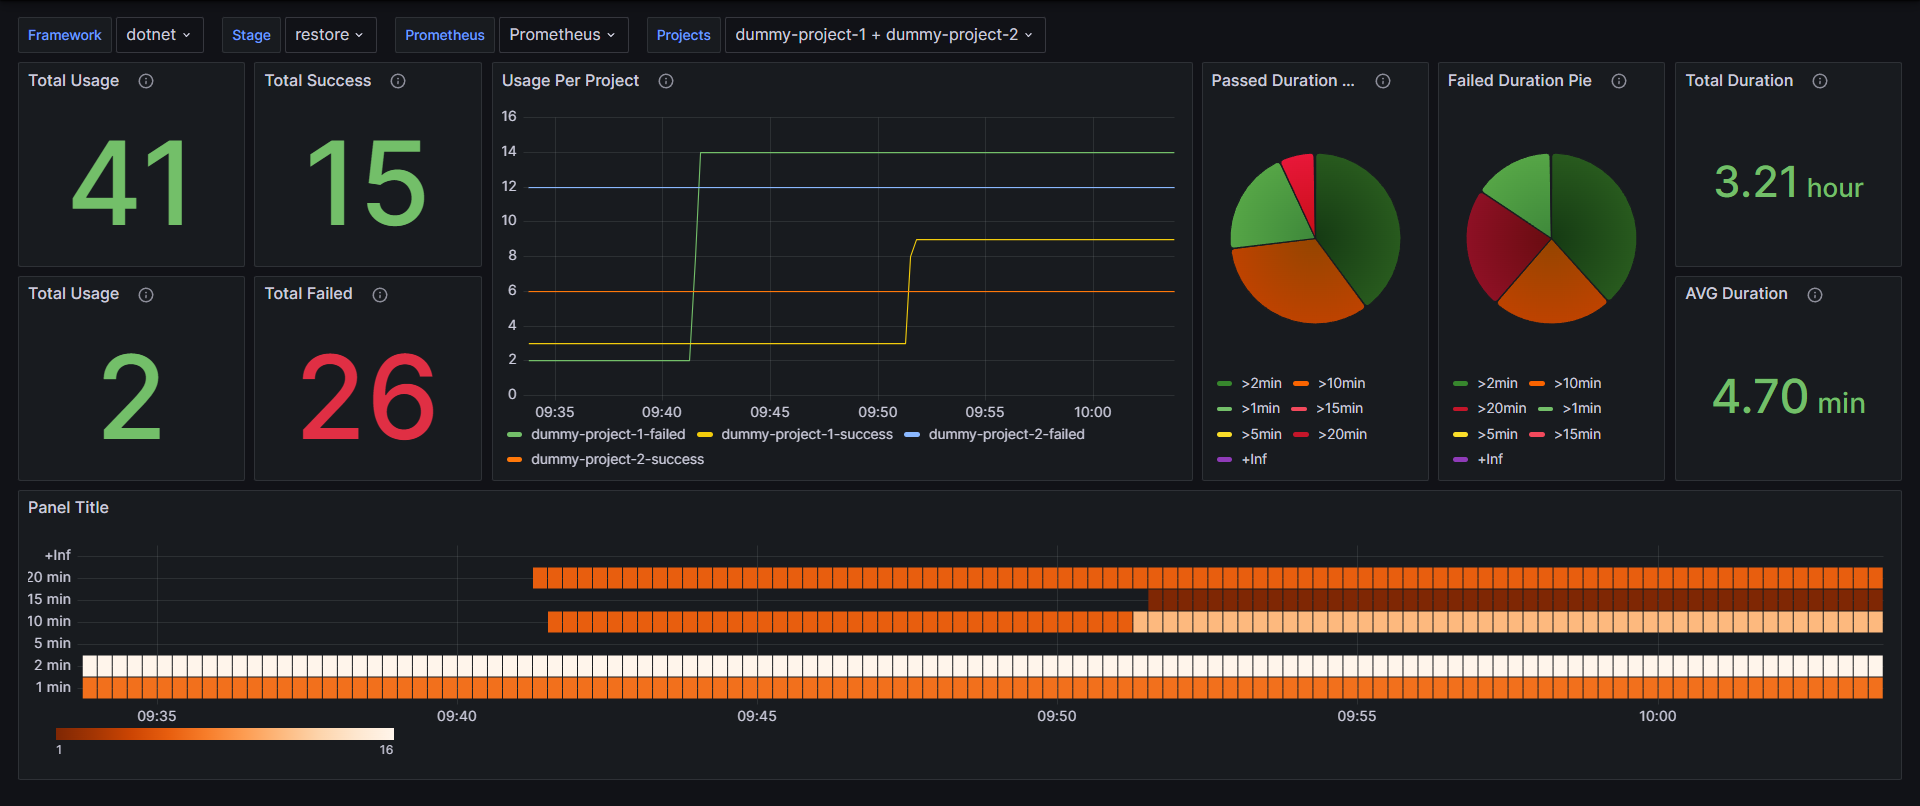
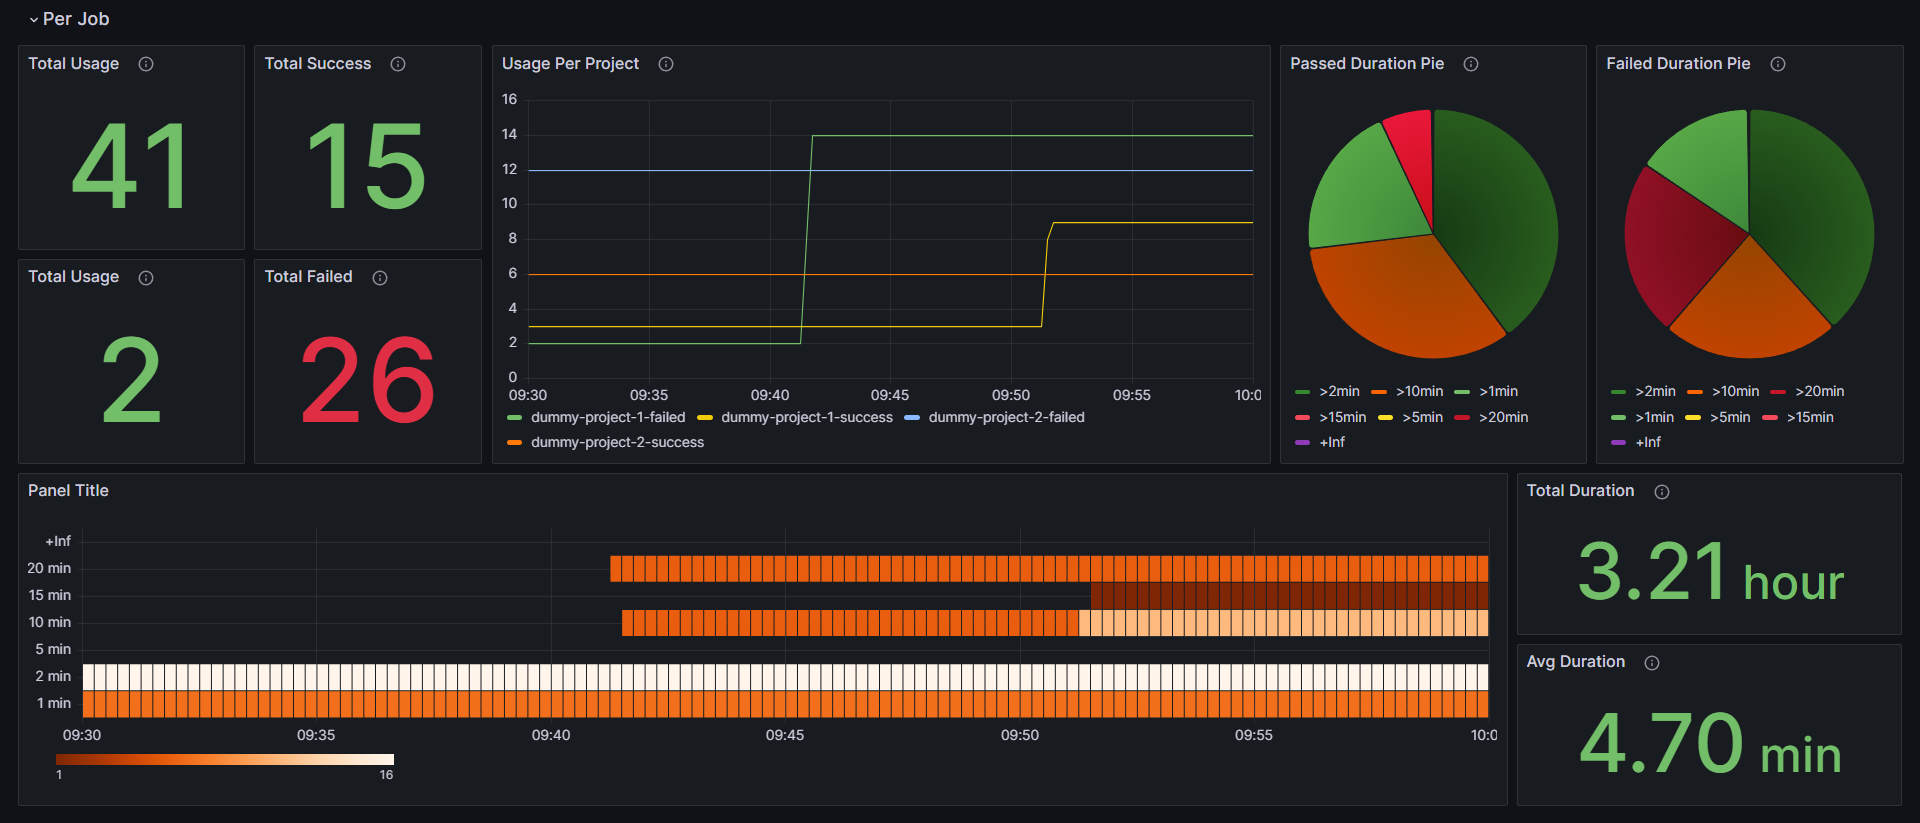
Grafana dashboard documented

diff --git a/README.md b/README.md
@@ -117,3 +117,15 @@ Or run a new Grafana instance by:
 ```cmd
 docker run -d --name=grafana -p 3000:3000 grafana/grafana
 ```
+
+#### General Section
+
+General information about the usage generally.
+
+![general row](/docs/images/general-section.PNG)
+
+#### Per Job Section
+
+Information about each CI job.
+
+![per job](/docs/images/per-job.PNG)
